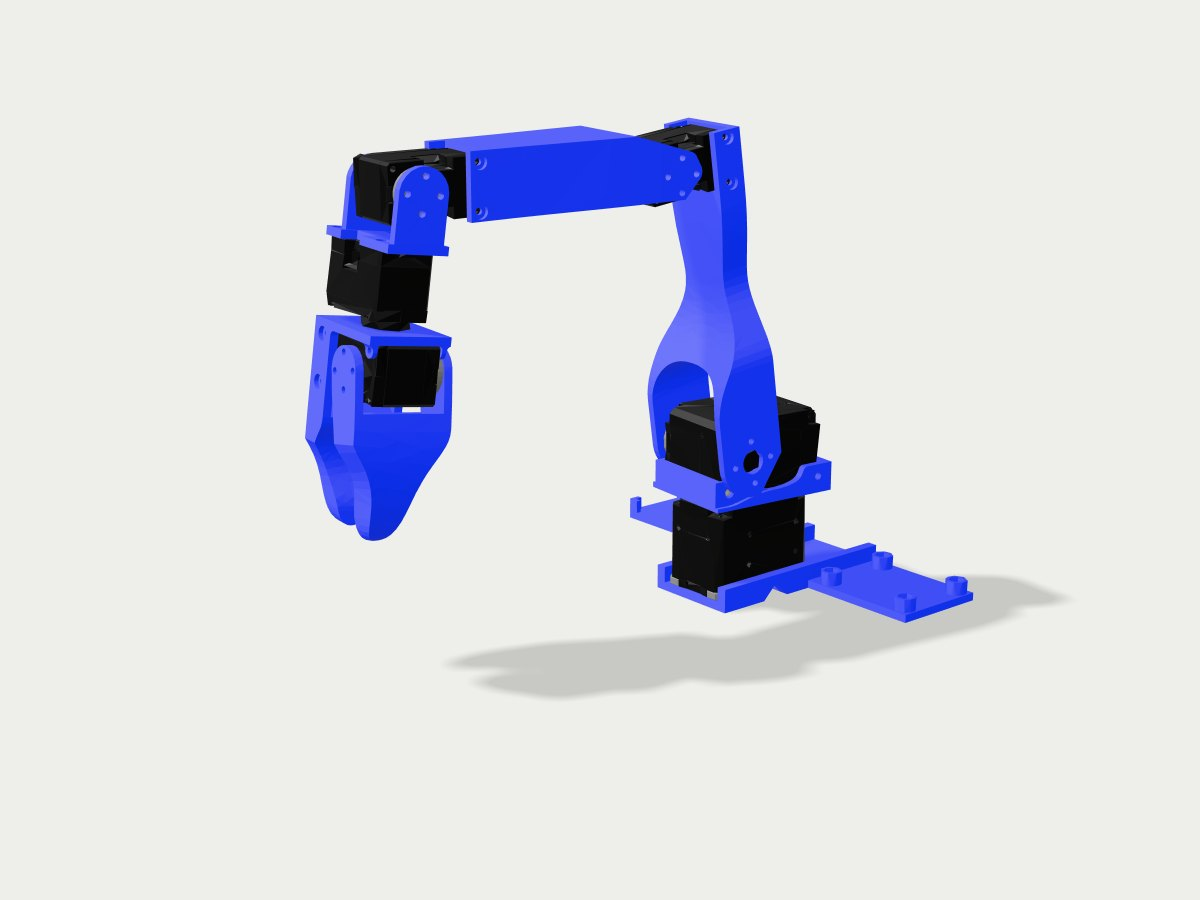
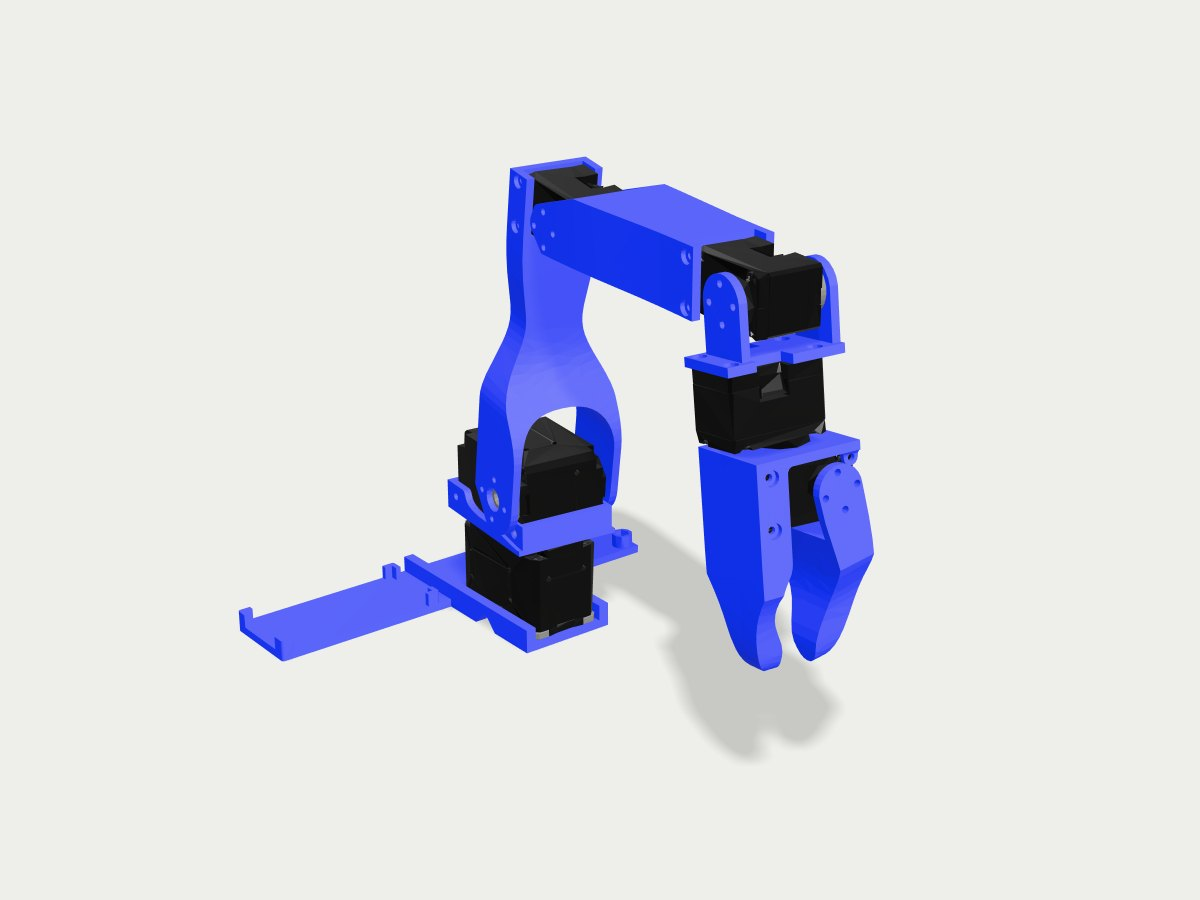
Koch renders: grounded, centred framing from the light side
Re-rendered img/koch_*.jpg at az=-38 el=22 dist=4.3 ty=0.5: the base plate
(min Y = 0) sits on the floor, the arm's cast shadow falls under/behind it
instead of detaching in front, and the gripper faces the camera.
render.mjs/render.html: optional ty= (look-at height as a fraction of the
model height, default 0.35 as before) so tall, overhanging models can be
centred in the frame; existing renders are unchanged.

Claude-Session: https://claude.ai/code/session_01BZLxn37hPV3nyR5Dfttybs

Changed region(s): [[0.185, 0.1244, 0.8942, 0.84]]

diff --git a/tools/render-kit/render.html b/tools/render-kit/render.html
@@ -53,7 +53,7 @@ window.renderKit = async o => {
   root.position.y = -box.min.y; root.updateMatrixWorld(true);
   box.translate(new THREE.Vector3(0, -box.min.y, 0));
   const c = box.getCenter(new THREE.Vector3()), r = box.getSize(new THREE.Vector3()).length() / 2;
-  c.y = (box.max.y - box.min.y) * 0.35;
+  c.y = (box.max.y - box.min.y) * (o.ty ?? 0.35);   // look-at height (fraction of the model height)
   const az = THREE.MathUtils.degToRad(o.az ?? 35), el = THREE.MathUtils.degToRad(o.el ?? 26), d = r * (o.dist ?? 4.2);
   camera.position.set(c.x + d * Math.cos(el) * Math.sin(az), c.y + d * Math.sin(el), c.z + d * Math.cos(el) * Math.cos(az));
   camera.lookAt(c);
